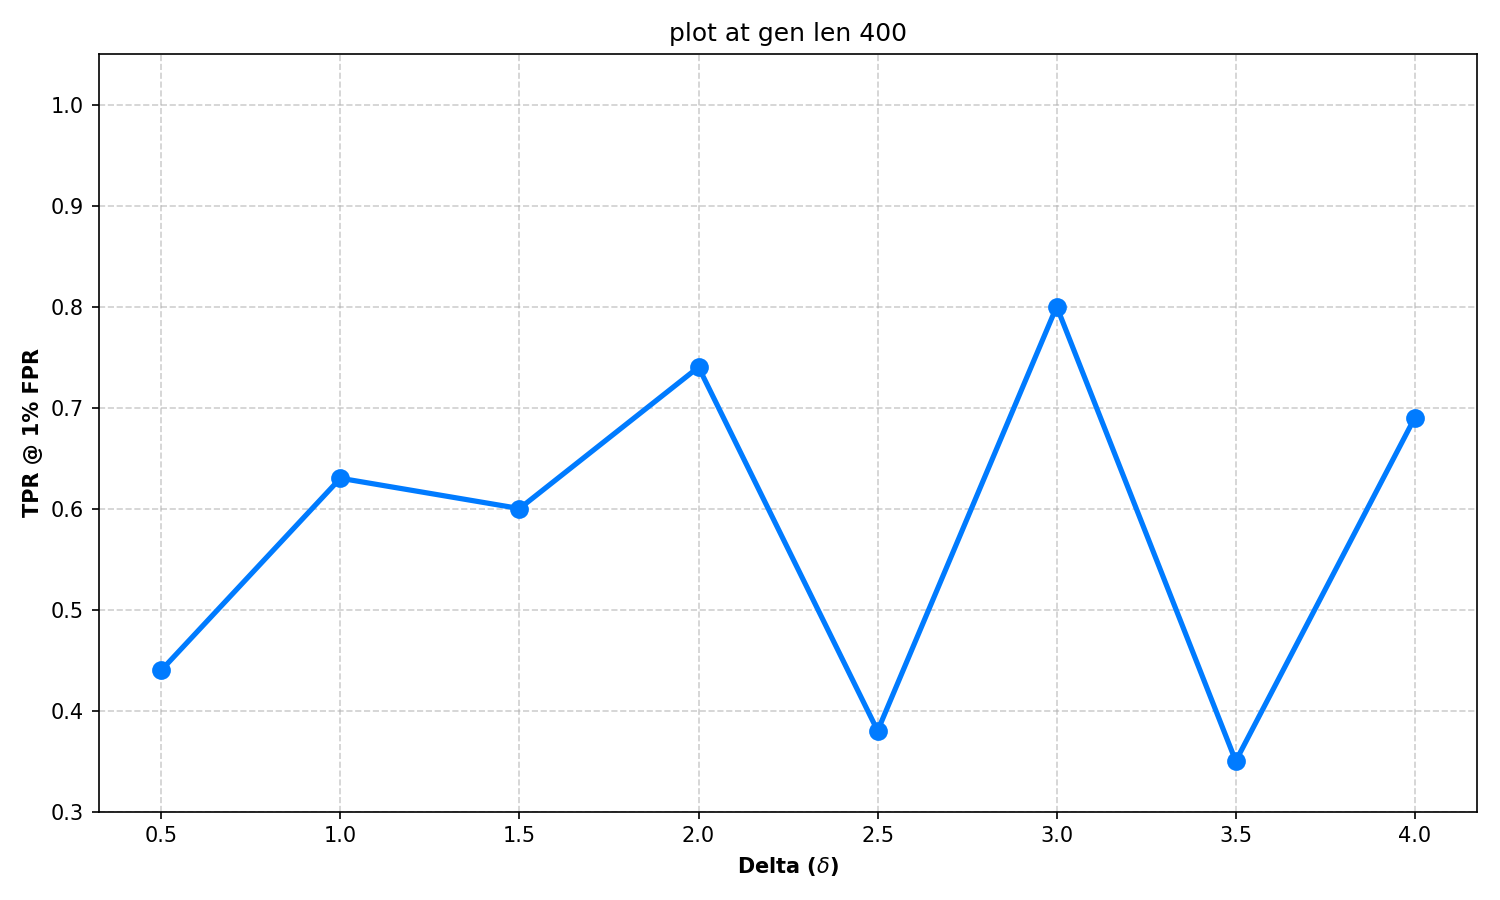
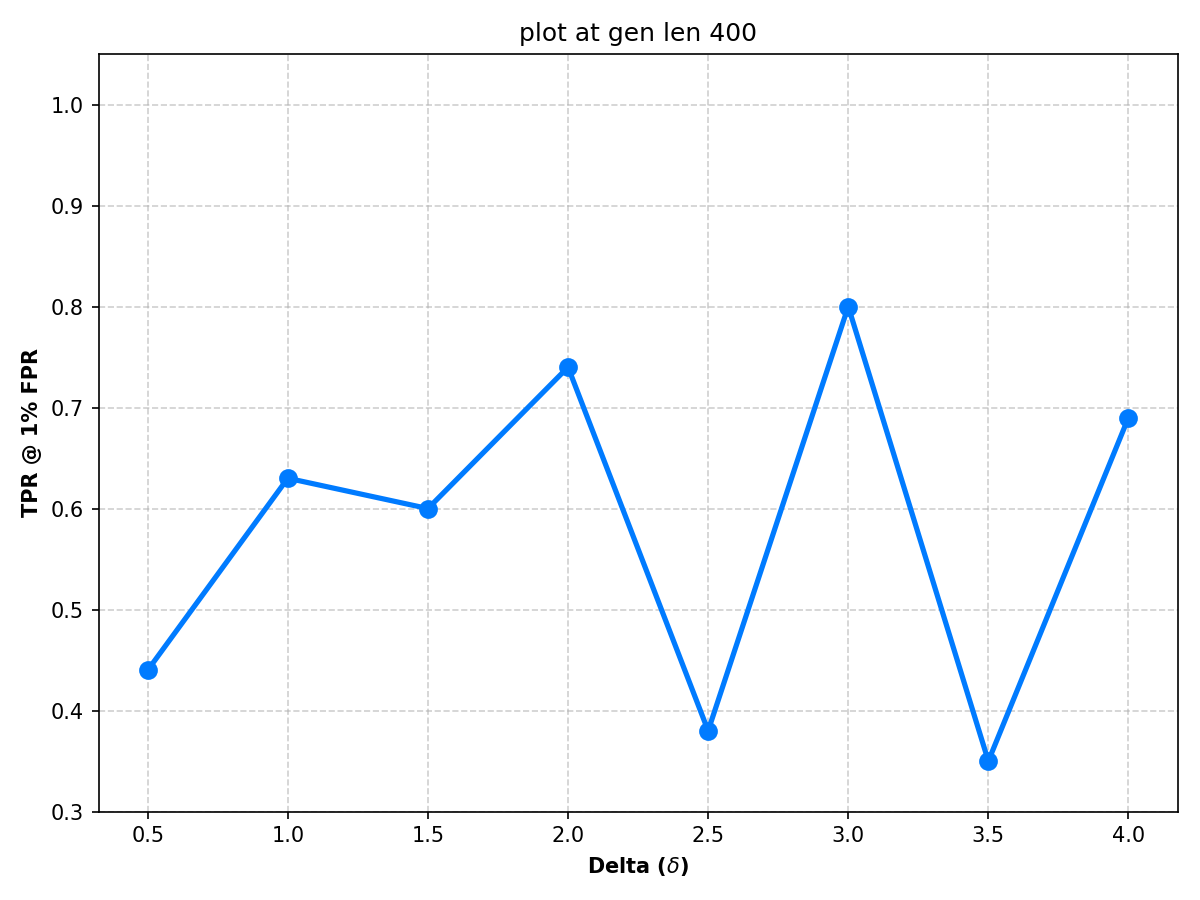
line graph scripts

diff --git a/scripts/graphs/line_graph_delta.py b/scripts/graphs/line_graph_delta.py
@@ -37,7 +37,7 @@ def plot(run_dir: str, target_fpr=0.01):
         print('no data to plot')
         return
     deltas, tprs = zip(*results)
-    plt.figure(figsize=(10,6), dpi=150)
+    plt.figure(figsize=(8,6), dpi=150)
     plt.plot(deltas, tprs, marker='o', linestyle='-', color='#007bff', linewidth=2.5, markersize=8, label=f'TPR @ {target_fpr*100:.0f}% FPR')
     plt.xlabel(r'Delta ($\delta$)',fontweight='bold')
     plt.ylabel('TPR @ 1% FPR', fontweight='bold')

diff --git a/scripts/graphs/line_graph_genlen.py b/scripts/graphs/line_graph_genlen.py
@@ -38,7 +38,7 @@ def plot(run_dir: str):
         return
     lengths, tprs = zip(*results)
 
-    plt.figure(figsize=(10,6), dpi=300)
+    plt.figure(figsize=(8,6), dpi=300)
     plt.plot(lengths, tprs, marker='o', linestyle='-', color='#007bff', linewidth=2.5, markersize=8, label=f'TPR @ 1% FPR')
     plt.xlabel('Lengths',fontweight='bold', fontsize='12')
     plt.ylabel('TPR @ 1% FPR', fontweight='bold', fontsize='12')
